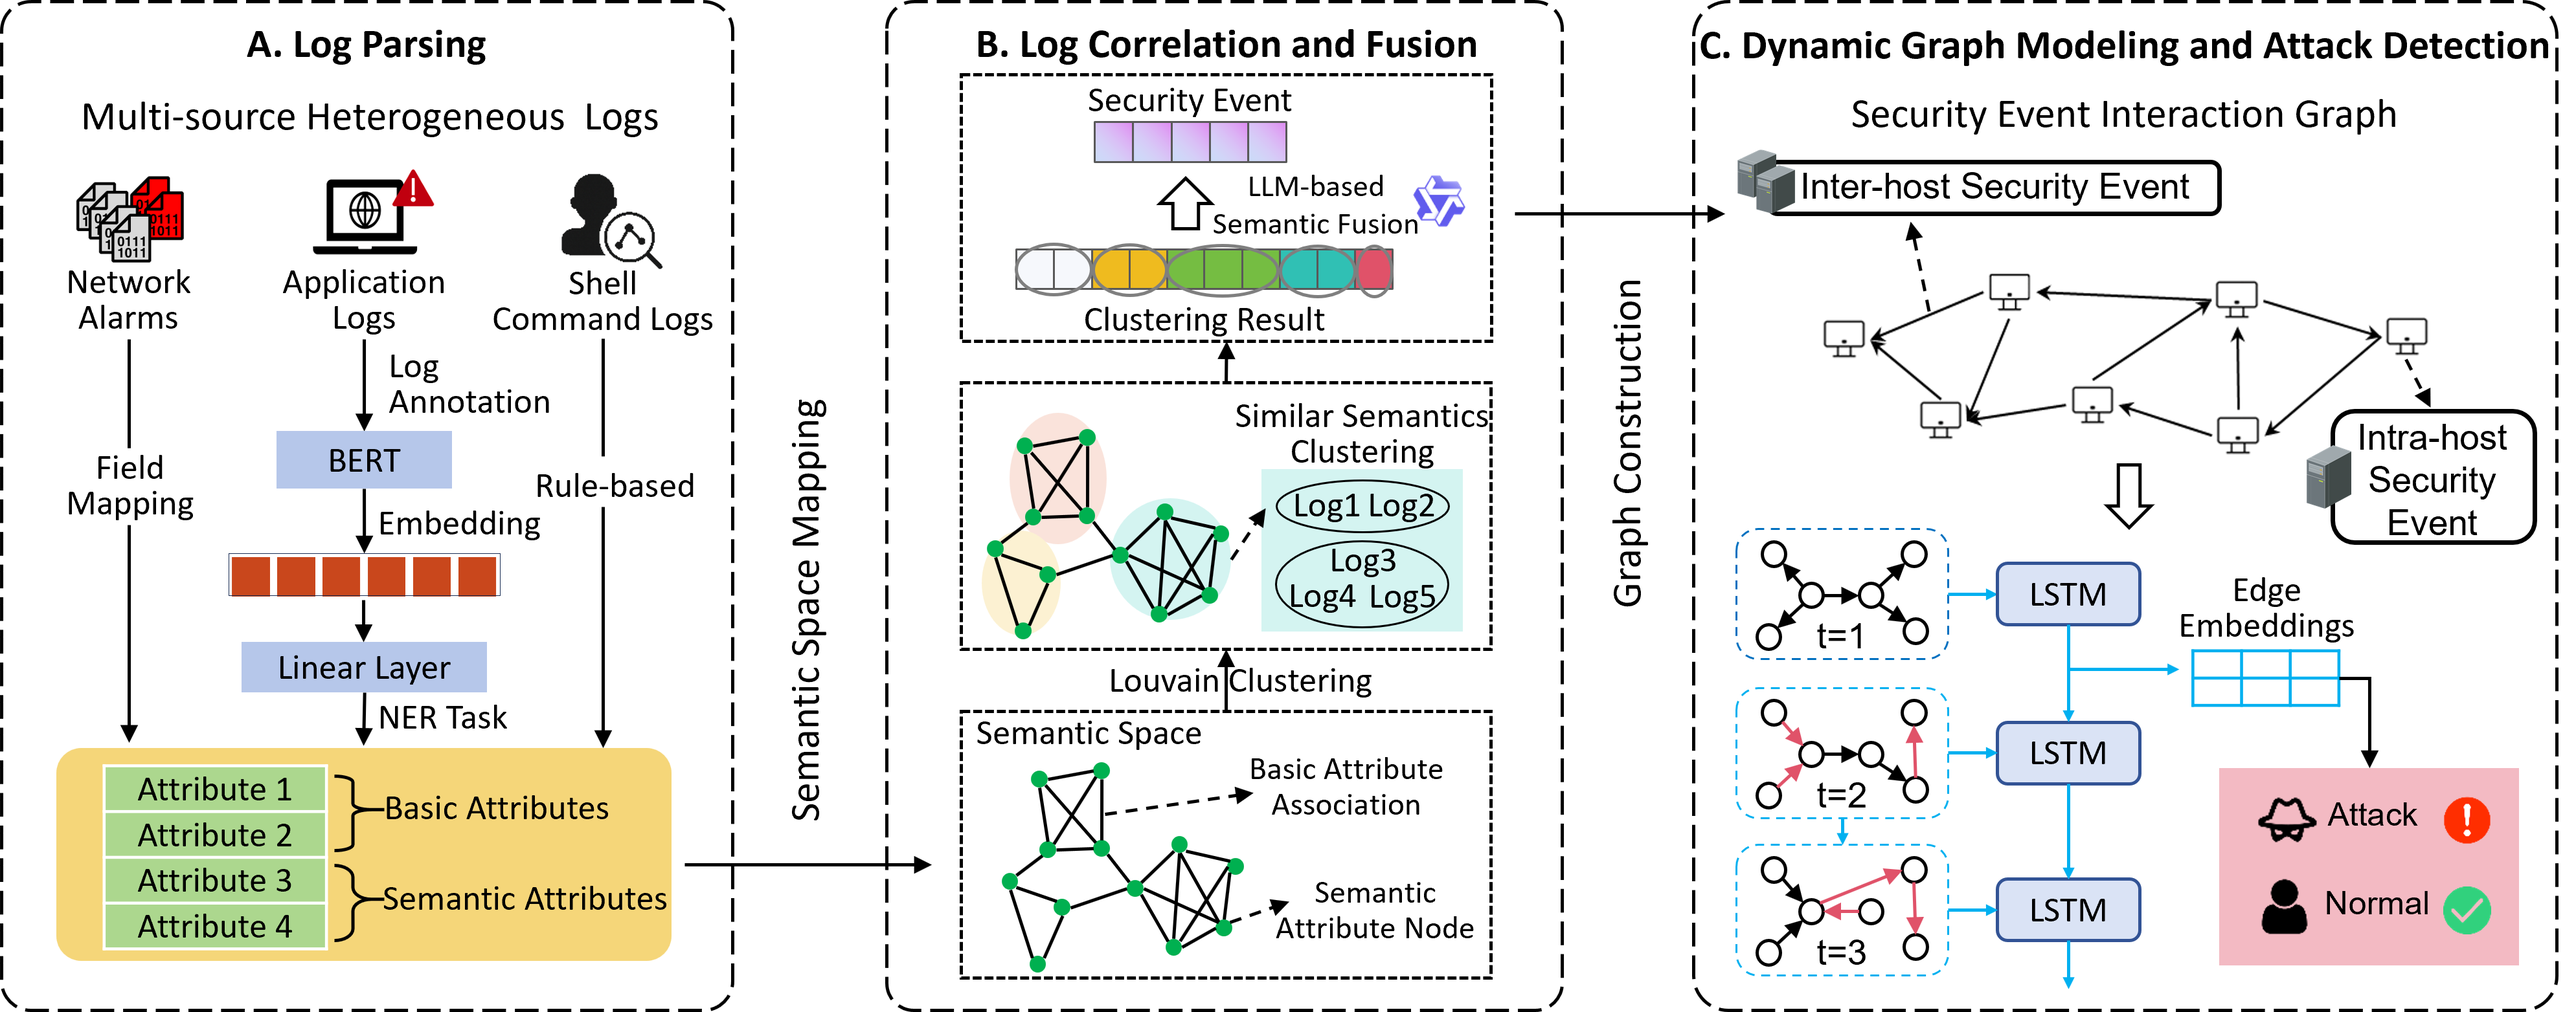
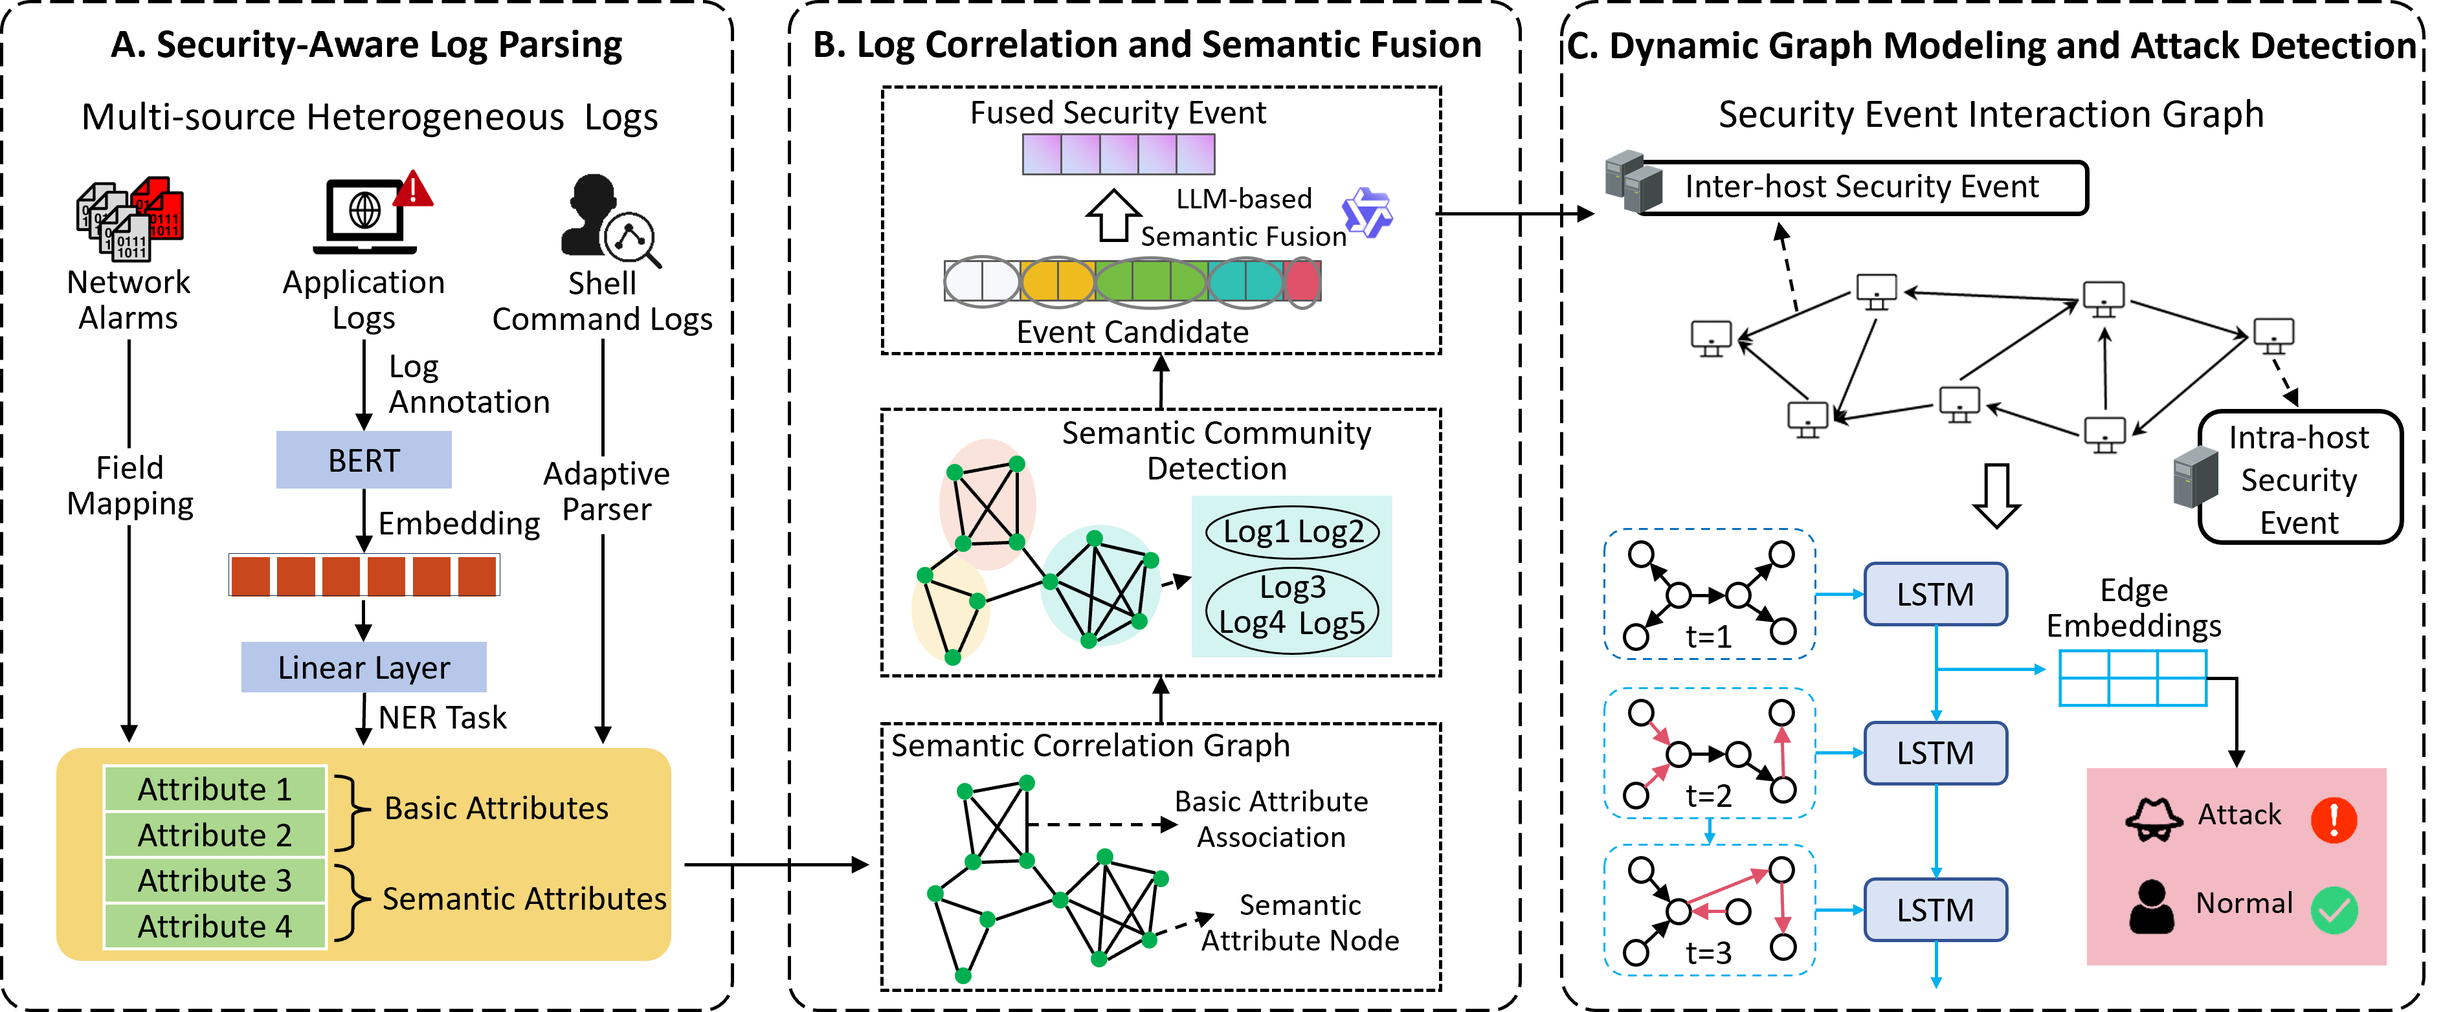
Document supplementary materials and publish MHSL evaluation records

diff --git a/README.md b/README.md
@@ -1,91 +1,52 @@
-# SERAD: Semantic Event Reconstruction for Dynamic Graph-based Attack Detection
+# SERAD: Semantic Event Reconstruction for Attack Detection from Multi-Source Lightweight Logs
 
+This repository contains supplementary materials for the SERAD paper, including dataset links, attack scenarios, parsing rules, an event description prompt, and evaluation records.
 
-![framework](./assets/framework.png)
+SERAD links network alarms, application logs, and shell command histories to reconstruct security events. It uses event descriptions and host context for graph-based attack detection.
 
-This repository provides the **public resources** associated with the research paper:  **"SERAD: Semantic Event Reconstruction for Dynamic Graph-based Attack Detection"**.
+![SERAD framework](assets/framework.png)
 
-We propose a **dynamic graph-based attack detection method** for **multi-source heterogeneous security logs**.
+## Materials
 
-In this repository, we provide:
-
-- The **Loghub dataset** and a description of attack scenarios in our **laboratory-collected dataset**.
-- The **shell command parsing method** used in our approach.
-- The **event-tag fusion prompt template** for multi-source security behavior summarization.
-- The **fusion results records** generated by different large language models and their annotations.
-- A **network alarm normalization example** for heterogeneous alert schemas.
-- A **port-to-service mapping table** for reference.
+| Material | Contents |
+| --- | --- |
+| [Attack scenarios](attack_step.md) | MHSL attack steps, participating hosts, and recorded time windows. |
+| [Description review records](fusion_results/README.md) | Descriptions and review annotations for 462 MHSL-S1 event candidates across six models. |
+| [Detection results](detection_results/README.md) | Individual run and fold scores for the MHSL comparisons in Appendix E, Tables XVIII and XIX. |
+| [Command parsing rules](cmd_parse.py) | Rules for extracting command types, options, and arguments. |
+| [Event description prompt](fusion_prompt.py) | The ICIO prompt template for combining alarm signatures, command information, and log templates. |
+| [Network alarm normalization](network_normalization.py) | A field-mapping dictionary and normalization example for network alarms. |
+| [Port-to-service mapping](port_service.csv) | Port numbers, transport protocols, and service descriptions. |
 
 ## Datasets
 
-Our evaluation utilizes two distinct datasets:
+### MHSL
 
-1. **Loghub Dataset** – A publicly available **large-scale system log collection** for AI-driven log analytics research.
-2. **Laboratory-Collected Dataset** – A dataset collected in a controlled testbed, containing **crafted attack scenarios** for security analysis.
+MHSL contains two attack scenarios collected in a laboratory network. Each scenario has ten attack steps. The [scenario documentation](attack_step.md) describes the activity and available evidence.
 
-### Loghub  dataset:
+Download the data from [Google Drive](https://drive.google.com/file/d/1y3YEjbWCLlQYDDzUhNwZiWYkPDSPUYav/view). The archive includes `savestore.csv`, which contains records exported from Elasticsearch, including authentication logs and shell command histories. Network traffic captures are stored in host folders.
 
-The **Loghub dataset** provides **real-world system logs** from **distributed systems, supercomputers, operating systems, mobile systems, and server applications**. It is widely used for **log analysis, anomaly detection, and security research**.
+### Public benchmarks
 
-- The dataset can be accessed from: 🔗 [logpai/loghub: A Large Collection of System Log Datasets for AI-Driven Log Analytics](https://github.com/logpai/loghub)
+The paper uses the following public resources for parsing and detection evaluation. The links lead to the dataset authors' repositories or download pages.
 
-### Laboratory-Collected Dataset:
+| Resource | Use in the paper |
+| --- | --- |
+| [Loghub](https://github.com/logpai/loghub) | Template extraction on 16 log datasets. |
+| [VALB annotations](https://github.com/ginolzh/Variable_Aware_Log_Abstraction) | Variable parameter identification using the original ten categories. |
+| [AIT-ADS](https://zenodo.org/records/8263181) and [AIT Log Data Set V2](https://zenodo.org/records/5789064) | Detection on the russellmitchell and santos scenarios. |
+| [CIC-IDS2017](https://www.unb.ca/cic/datasets/ids-2017.html) | Detection using network alarms derived from traffic captures. |
 
-- **Download** and unzip the dataset from [Google Drive](https://bit.ly/40WNDcn).
-  - The `savestore.csv` file contains **application logs** exported from **Elasticsearch**, including `.bash_history` and `auth.log`.
-  
-  - **Raw network traffic** from involved hosts is stored in separate folders.
-  
-  - Our dataset includes **two attack scenarios**, each consisting of **ten attack steps**.
-  
-- For details on scenario design, attack step descriptions, and corresponding time windows, refer to:
-   [📄 Attack Steps Documentation (attack_step.md)](attack_step.md)
+## Evaluation records
 
-## Shell Command Parsing Rules
+The [description review files](fusion_results/README.md) contain generated descriptions, supporting records, and annotations for MHSL-S1. Their file guide explains the CSV columns and annotation values.
 
-We developed a [📌**rule-based shell command parser** (cmd_parse.py)](cmd_parse.py) to analyze command-line inputs, extract key entities, and classify commands based on their function and potential security risks.
+The [detection result files](detection_results/README.md) support the network alarm and event representation comparisons in Appendix E. They contain 30 results aggregated over folds, 150 individual fold results, and four results from MuSAR and SAGE. The guide explains how to obtain the reported F1 values from the saved confusion counts.
 
-The **`Parse_cmd` class** is designed to:
+## Parsing and description resources
 
-- **Extract command type and arguments** from shell command execution.
-- **Identify sensitive operations**, such as privilege escalation (`sudo`) and remote execution (`ssh`).
-- **Classify commands** into categories like **file operations, networking, system management, and security-related activities**.
+The `Parse_cmd` class in [cmd_parse.py](cmd_parse.py) extracts command types and arguments, with rules for tools such as `ssh`, `nmap`, and `nc`.
 
-## Security Behavior Fusion Prompt
+The prompt in [fusion_prompt.py](fusion_prompt.py) follows the Instruction, Context, Input, and Output structure. It combines alarm signatures, command information, and log templates into a short event description.
 
-We provide an [📌**ICIO prompt template** (`fusion_prompt.py`)](fusion_prompt.py) for fusing heterogeneous evidence into a concise, event-oriented security tag.
-
-The template emphasizes:
-
-- **Source confidence weighting** (network signatures > host templates > command traces).
-- **Cross-source correlation** to keep tags consistent and meaningful across similar events.
-- **Actionable event naming** focused on attack behavior (e.g., reconnaissance, exploitation, lateral movement).
-
-## Fusion Results Records
-
-The [`fusion_results`](fusion_results) folder records fusion outputs produced by different large language models, along with corresponding annotation status/content for comparison and analysis.
-
-## Network Alarm Normalization
-
-The [📌**network normalization module** (`network_normalization.py`)](network_normalization.py) provides a compact rule-based example to normalize heterogeneous alarm fields into a shared schema.
-
-It includes:
-
-- A **shared alarm schema** definition.
-- A **field mapping dictionary** for common source variations.
-- **Protocol/port type normalization** and optional service enrichment using `port_service.csv`.
-
-## Port-to-Service Mapping Table
-
-The [**Port-to-Service Mapping Table**](port_service.csv) provides a reference for commonly assigned ports and their associated protocols and services. Each row represents a **specific port number**, detailing its assignment across different transport protocols (**TCP, UDP, SCTP, DCCP**) and a brief **description** of its function.
-
-The table structure is as follows:
-
-| Column Name     | Description                                                  |
-| --------------- | ------------------------------------------------------------ |
-| **Port**        | The assigned port number.                                    |
-| **TCP**         | Indicates if the port is assigned for **TCP** communication (`Yes`, `Assigned`, or blank if unassigned). |
-| **UDP**         | Indicates if the port is assigned for **UDP** communication. |
-| **SCTP**        | Indicates if the port is assigned for **SCTP** communication. |
-| **DCCP**        | Indicates if the port is assigned for **DCCP** communication. |
-| **Description** | A brief explanation of the port’s function and usage.        |
+[network_normalization.py](network_normalization.py) maps alarm fields to a shared schema and normalizes protocols and ports. [port_service.csv](port_service.csv) supplies the associated service information. Its columns are `Port`, `TCP`, `UDP`, `SCTP`, `DCCP`, and `Description`.

diff --git a/detection_results/README.md b/detection_results/README.md
@@ -1,0 +1,37 @@
+# MHSL detection results
+
+These files contain the scores for the network alarm comparison and event representation comparison in Appendix E, Tables XVIII and XIX. MHSL-S1 contains 1,722 evaluated alarms, and MHSL-S2 contains 1,612.
+
+Table XVIII compares SERAD, DeepCASE, MuSAR, and SAGE on these alarms. Table XIX compares four SERAD event representations. Both tables use the same full SERAD result.
+
+## Files
+
+| File | Contents |
+| --- | --- |
+| [seed_metrics.csv](seed_metrics.csv) | 30 results: five conditions, two scenarios, and three training seeds. Each row combines the five test folds for one run. |
+| [fold_metrics.csv](fold_metrics.csv) | The 150 test-fold results underlying those runs. |
+| [native_metrics.csv](native_metrics.csv) | Four results from the MuSAR and SAGE attack analyses, one per method and scenario. |
+
+## Conditions
+
+The `s1-` and `s2-` prefixes identify the MHSL scenario.
+
+| Condition suffix | Method or representation |
+| --- | --- |
+| `full` | SERAD with attributes, semantic communities, and LLM descriptions. This is the same full SERAD result in both tables. |
+| `DeepCASE` | DeepCASE in the network alarm comparison. |
+| `attribute_concat` | Attribute association with concatenated text. |
+| `attribute_llm` | Attribute association with LLM descriptions. |
+| `community_concat` | Attribute and community association with concatenated text. |
+| `MuSAR` | MuSAR attack-chain output mapped to network alarms. |
+| `SAGE` | SAGE attack-graph output mapped to network alarms. |
+
+## Metrics and averaging
+
+SERAD and DeepCASE use five folds with partition seed 1234 and training seeds 42, 43, and 44. Within each run, the five test folds are combined before computing the metrics in `seed_metrics.csv`. The tables report the mean attack-class F1 across the three runs. MuSAR and SAGE each contribute one result per scenario, recorded in `native_metrics.csv`.
+
+`n` is the number of evaluated network alarms. `tp`, `fp`, `tn`, and `fn` are the confusion counts with attack as the positive class. `precision`, `recall`, and `f1` describe that class. `accuracy` is the fraction of correct predictions. `weighted_f1` weights the two class F1 scores by their alarm counts.
+
+These files evaluate individual network alarms under the Appendix E protocol. Table IX uses each method's evaluation protocol and reports class-weighted metrics on graph edges for SERAD.
+
+For each seed, summing the five fold confusion counts reproduces its run-level metrics. Compute attack F1 as `2 * tp / (2 * tp + fp + fn)`, then average the three run-level F1 scores to obtain the table value.

diff --git a/fusion_results/README.md b/fusion_results/README.md
@@ -1,0 +1,34 @@
+# Event description review records
+
+Each CSV contains descriptions and annotations for the same 462 event candidates from MHSL-S1. A row contains one description, its supporting records, and the recorded review outcome.
+
+## Files
+
+| File | Model identifier recorded in the file |
+| --- | --- |
+| [Qwen3-30B](annotation_report_qwen3_30b_a3b_instruct_2507.csv) | `qwen3-30b-a3b-instruct-2507` |
+| [Qwen3-235B](annotation_report_qwen3_235b_a22b_instruct_2507.csv) | `qwen3-235b-a22b-instruct-2507` |
+| [DeepSeek](annotation_report_deepseek_v3_2.csv) | `deepseek-v3.2` |
+| [Gemini Pro](annotation_report_gemini_3_pro_preview.csv) | `gemini-3-pro-preview` |
+| [Gemini Flash](annotation_report_gemini_2_5_flash.csv) | `gemini-2.5-flash` |
+| [GPT-4o](annotation_report_gpt_4o.csv) | `gpt-4o` |
+
+The files retain their recorded model identifiers. These records concern description review. Detection scores and their evaluation protocol are documented separately in [detection_results](../detection_results/README.md).
+
+## Reading the files
+
+Each file begins with 12 lines of summary comments, followed by the CSV header beginning with `group_id`. Skip those comment lines when importing the table into a spreadsheet or CSV reader.
+
+| Columns | Meaning |
+| --- | --- |
+| `group_id`, `cluster_id` | Identifiers recorded for the event candidate and its semantic community. |
+| `src_ip`, `dst_ip`, `timestamp` | Addresses and time recorded for the candidate. |
+| `llm_tag`, `llm_model` | Generated description and its recorded model identifier. |
+| `num_events` | Number of input records in the candidate. |
+| `signatures`, `commands`, `templates` | Semantic attributes supplied for description generation. |
+| `event_summaries`, `base_attrs_summary` | Supporting record summaries and basic attributes. |
+| `tag_correct` | Whether the description summarizes its supporting records correctly. |
+| `correlation_correct` | The recorded assessment of the candidate's member records. |
+| `suggested_tag`, `annotator_notes` | Suggested description and explanation recorded during review. |
+
+For the two annotation columns, `1` means correct, `0` means incorrect, and `?` means uncertain. Description accuracy is the number of rows with `tag_correct = 1` divided by the number of reviewed descriptions.
